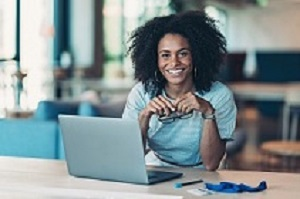
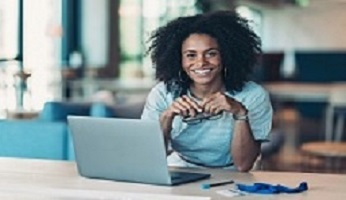
( update ) Navbar button group color changed, all pictures resized

diff --git a/src/App.js b/src/App.js
@@ -23,7 +23,7 @@ export default function App() {
         <NavBar />
       </div>
       <div className='NewsLetter'>
-        <Card>
+        <Card className='cards'>
           <CardContent>
             <CardMedia
               component="img"
@@ -46,14 +46,14 @@ export default function App() {
         </Card>
       </div>
       <div className='Services'>
-        <Card>
-          <CardMedia
-            component="img"
-            height="200"
-            image={bizServices}
-            alt="newsletter sign up"
-          />
+        <Card className='cards'>
           <CardContent>
+            <CardMedia
+              component="img"
+              height="200"
+              image={bizServices}
+              alt="business services"
+            />
             <Typography gutterBottom variant="h5" component="div">
               Let Our Team Help Your Team
             </Typography>
@@ -69,7 +69,7 @@ export default function App() {
         </Card>
       </div>
       <div className='Tests'>
-        <Card>
+        <Card className='cards'>
           <CardContent>
             <CardMedia
               component="img"
@@ -92,7 +92,7 @@ export default function App() {
         </Card>
       </div>
       <div className='Contacts'>
-        <Card>
+        <Card className='cards'>
           <CardContent>
             <CardMedia
               component="img"

diff --git a/src/NavBar.js b/src/NavBar.js
@@ -60,7 +60,7 @@ export default function NavBar() {
                 </Menu>
             </div>
             <div className='navButtons'>
-                <ButtonGroup variant="text" aria-label="small button group" style={{ backgroundColor: "white" }}>
+                <ButtonGroup variant="text" aria-label="small button group" style={{ backgroundColor: "darkgray" }}>
                     <Button >
                         <Typography className='navBtnText' variant="button" display="block" gutterBottom>
                             NewsLetter

diff --git a/src/styles/App.css b/src/styles/App.css
@@ -79,4 +79,12 @@
             ". NewsLetter Services Tests Contacts ."
             ". Footer Footer Footer Footer . "; 
     }
+    
+  .cards {
+    height: 100%;
+    display: flex;
+    flex-direction: column;
+    justify-content: space-between;
+
+    }
   }

diff --git a/src/styles/NavBar.css b/src/styles/NavBar.css
@@ -64,6 +64,7 @@
      }
   }
 
+
 /* Desktop */
 
 @media (min-width: 800px) and (max-width: 2000px) {
